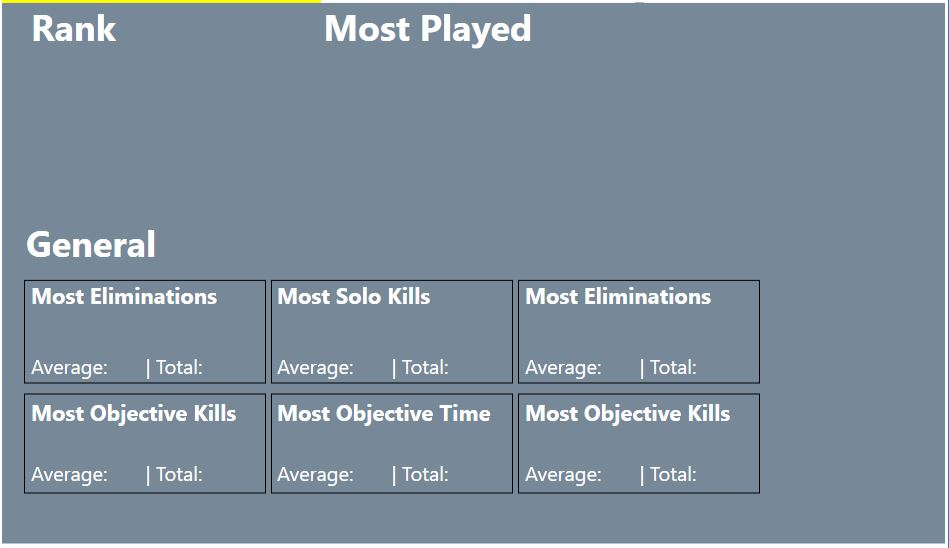
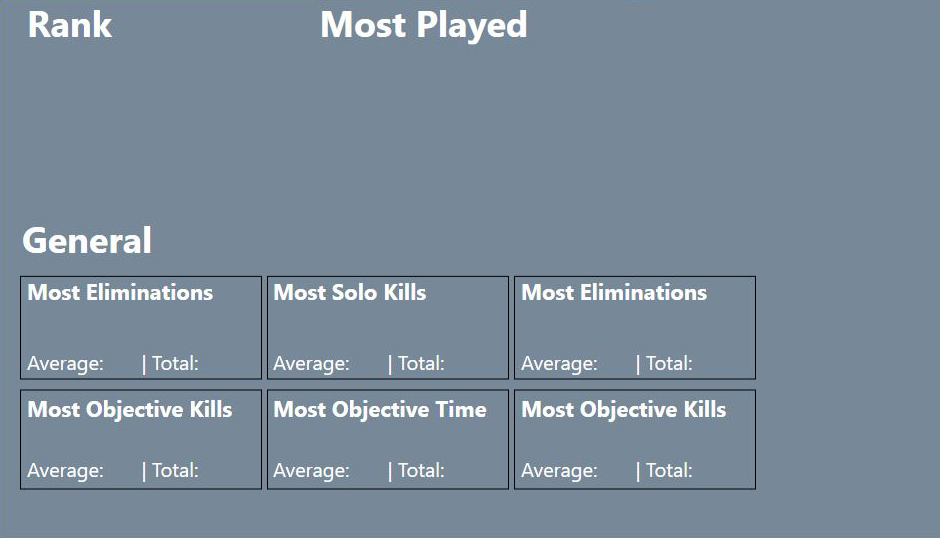
Modified background images again

Changed region(s): [[0.0, 0.5056, 0.8021, 0.9219], [0.0, 0.0, 1.0, 1.0], [0.0, 0.4164, 0.1851, 0.4758]]

diff --git a/CPSC_481_PROJECT/CPSC_481_PROJECT/MainPage.xaml b/CPSC_481_PROJECT/CPSC_481_PROJECT/MainPage.xaml
@@ -89,18 +89,13 @@
                             <Grid Background="LightSlateGray">
                                 <Grid.ColumnDefinitions>
                                     <ColumnDefinition Width="455*"/>
-                                    <ColumnDefinition Width="498*"/>
+                                    <ColumnDefinition Width="500*"/>
                                 </Grid.ColumnDefinitions>
-                                <TextBox x:Name="textBox" HorizontalAlignment="Left" Height="46" Margin="27,0,0,0" TextWrapping="Wrap" Text="Rank" VerticalAlignment="Top" Width="107" FontWeight="Bold" Background="{x:Null}" Foreground="White" BorderThickness="0" RenderTransformOrigin="2.581,0.377" TextChanged="textBox_TextChanged"/>
-                                <TextBox x:Name="textBox_Copy" HorizontalAlignment="Left" Height="57" Margin="27,159,0,0" TextWrapping="Wrap" Text="General" VerticalAlignment="Top" Width="144" FontWeight="Bold" Background="{x:Null}" Foreground="White" BorderThickness="0"/>
-                                <TextBox x:Name="textBox_Copy1" HorizontalAlignment="Left" Height="46" TextWrapping="Wrap" Text="Most Played" VerticalAlignment="Top" Width="233" FontWeight="Bold" Background="{x:Null}" Foreground="White" BorderThickness="0" Grid.Column="1"/>
-                                <TextBox x:Name="AveragesTotalsBoxOne" HorizontalAlignment="Left" Height="171" Margin="27,321,0,0" TextWrapping="Wrap" Text="Average:       | Total:  &#xA;&#xD;&#xA;&#xD;&#xA;&#xD;&#xA;&#xD;&#xA;Average:       | Total:  " VerticalAlignment="Top" Width="222" BorderThickness="0" Background="LightSlateGray" Foreground="White" FontSize="20"/>
-                                <TextBox x:Name="MostSummary1" HorizontalAlignment="Left" Height="200" Margin="27,246.26,0,0" TextWrapping="Wrap" Text="Most Eliminations&#xA;&#xD;&#xA;&#xD;&#xA;&#xD;&#xA;&#xD;&#xA;Most Objective Kills&#xA;&#xA;&#xA;" VerticalAlignment="Top" Width="237" BorderThickness="0" Background="{x:Null}" Foreground="White" FontSize="22" FontWeight="Bold" TextChanged="MostSummary1_TextChanged"/>
-                                <TextBox x:Name="Averages1_Copy" HorizontalAlignment="Left" Height="200" Margin="269,321,-40.774,0" TextWrapping="Wrap" Text="Average:       | Total: &#xA;&#xA;&#xA;&#xA;&#xA;Average:       | Total: " VerticalAlignment="Top" Width="222" BorderThickness="0" Background="LightSlateGray" Foreground="White" FontSize="20"/>
-                                <TextBox x:Name="MostSummary1_Copy" HorizontalAlignment="Left" Height="271" Margin="269,246.26,-40.774,0" TextWrapping="Wrap" Text="Most Solo Kills&#xA;&#xA;&#xA;&#xA;&#xA;Most Objective Time&#xA;&#xA;&#xA;" VerticalAlignment="Top" Width="222" BorderThickness="0" Background="{x:Null}" Foreground="White" FontSize="22" FontWeight="Bold" TextChanged="MostSummary1_TextChanged"/>
-                                <TextBox x:Name="AveragesTotalsBoxOne_Copy" HorizontalAlignment="Left" Height="171" Margin="72.774,321,0,0" TextWrapping="Wrap" Text="Average:       | Total:  &#xA;&#xA;&#xA;&#xA;&#xA;Average:       | Total:  " VerticalAlignment="Top" Width="222" BorderThickness="0" Background="LightSlateGray" Foreground="White" FontSize="20" Grid.Column="1"/>
-                                <TextBox x:Name="MostSummary1_Copy2" HorizontalAlignment="Left" Height="200" Margin="72.774,246.26,0,0" TextWrapping="Wrap" Text="Most Eliminations&#xA;&#xA;&#xA;&#xA;&#xA;Most Objective Kills&#xA;&#xA;&#xA;" VerticalAlignment="Top" Width="237" BorderThickness="0" Background="{x:Null}" Foreground="White" FontSize="22" FontWeight="Bold" TextChanged="MostSummary1_TextChanged" Grid.Column="1"/>
-                                <Border BorderBrush="Black" BorderThickness="1" Margin="22,246.26,186.226,184"/>
+                                <Image x:Name="StatsBackground" Source="Images/StatsBackgroundCentered.jpg" Grid.ColumnSpan="2" HorizontalAlignment="Left" Height="531" VerticalAlignment="Top" Width="933"/>
+                                <Rectangle x:Name="MostPlayedRec1" Grid.ColumnSpan="2" HorizontalAlignment="Left" Height="140" Margin="377,65,0,0" Stroke="Black" StrokeThickness="2" VerticalAlignment="Top" Width="140"/>
+                                <Rectangle x:Name="MostPlayedRec2" HorizontalAlignment="Left" Height="140" Margin="94,65,0,0" Stroke="Black" StrokeThickness="2" VerticalAlignment="Top" Width="140" Grid.Column="1"/>
+                                <Rectangle x:Name="MostPlayedRec3" HorizontalAlignment="Left" Height="140" Margin="259,65,0,0" Stroke="Black" StrokeThickness="2" VerticalAlignment="Top" Width="140" Grid.Column="1" RenderTransformOrigin="0.927,0.497"/>
+                                <Rectangle x:Name="RankIconRectangle" HorizontalAlignment="Left" Height="140" Margin="81,65,0,0" Stroke="Black" StrokeThickness="2" VerticalAlignment="Top" Width="163"/>
                             </Grid>
                         </TabItem>
                         <TabItem Header="FRIENDS" HorizontalAlignment="Right" Width="314">
@@ -168,7 +163,7 @@
 
 
             </TabItem>
-            <TabItem Header="SEARCH" Width="625" Height="76" FontSize="36" Margin="5,-20,-5,20">
+            <TabItem Header="SEARCH" Width="625" Height="76" FontSize="36" Margin="5,0,-5,0">
                 <Grid>
                     <Grid.Resources>
                         <Style TargetType="RadioButton" BasedOn="{StaticResource {x:Type ToggleButton}}">
@@ -193,8 +188,8 @@
                             </Setter>
                         </Style>
                     </Grid.Resources>
-                    <TabControl x:Name="SearchTabControl" HorizontalAlignment="Left" Height="616" Margin="10,0,0,0" VerticalAlignment="Top" Width="1242" BorderThickness="0">
-                        <TabItem Header="SOLO" Width="626">
+                    <TabControl x:Name="SearchTabControl" HorizontalAlignment="Left" Height="616" Margin="22,0,0,0" VerticalAlignment="Top" Width="1242" BorderThickness="0">
+                        <TabItem Header="SOLO" Width="626" Background="{x:Null}">
                             <Grid x:Name="___No_Name_" Background="LightGray">
                                 <RadioButton x:Name="SoloSearchQuickplayToggle" Content="   QUICKPLAY" HorizontalAlignment="Left" Margin="385,22,0,0" VerticalAlignment="Top" Width="240" Checked="SoloSearchQuickplayToggle_Checked"/>
                                 <RadioButton x:Name="SoloSearchRankedToggle" Content="     RANKED" HorizontalAlignment="Left" Margin="625,22,0,0" VerticalAlignment="Top" Width="240" Checked="SoloSearchRankedToggle_Checked"/>
@@ -228,7 +223,13 @@
                             </Grid>
                         </TabItem>
                         <TabItem Header="GROUP" Width="612">
-                            <Grid Background="LightGray">
+                            <TabItem.Background>
+                                <LinearGradientBrush EndPoint="0,1" StartPoint="0,0">
+                                    <GradientStop Color="#FFF0F0F0" Offset="0"/>
+                                    <GradientStop Color="#FFE5E5E5" Offset="1"/>
+                                </LinearGradientBrush>
+                            </TabItem.Background>
+                            <Grid Background="LightGray" Margin="0,2,0,-2">
                                 <RadioButton x:Name="GroupSearchQuickplayToggle" Content="   QUICKPLAY" HorizontalAlignment="Left" Margin="385,22,0,0" VerticalAlignment="Top" Width="240"/>
                                 <RadioButton x:Name="GroupSearchRankedToggle" Content="     RANKED" HorizontalAlignment="Left" Margin="625,22,0,0" VerticalAlignment="Top" Width="240"/>
                                 <ListView x:Name="GroupSearchListView" HorizontalAlignment="Left" Margin="145,202,0,25" Width="960" FontSize="24" Background="LightSlateGray">
@@ -257,12 +258,7 @@
                     </TabControl>
 
                 </Grid>
-
-
             </TabItem>
-            <TextBlock x:Name="textBlock2" Height="100" TextWrapping="Wrap" Text="TextBlock" Width="100"/>
-
-
         </TabControl>
         <Button x:Name="LogoutButton" Content="LOGOUT" FontSize="20" Background="Tomato" HorizontalAlignment="Left" Margin="10,653,0,0" VerticalAlignment="Top" Width="114" Height="27" Click="LogoutButton_Click"/>
 
